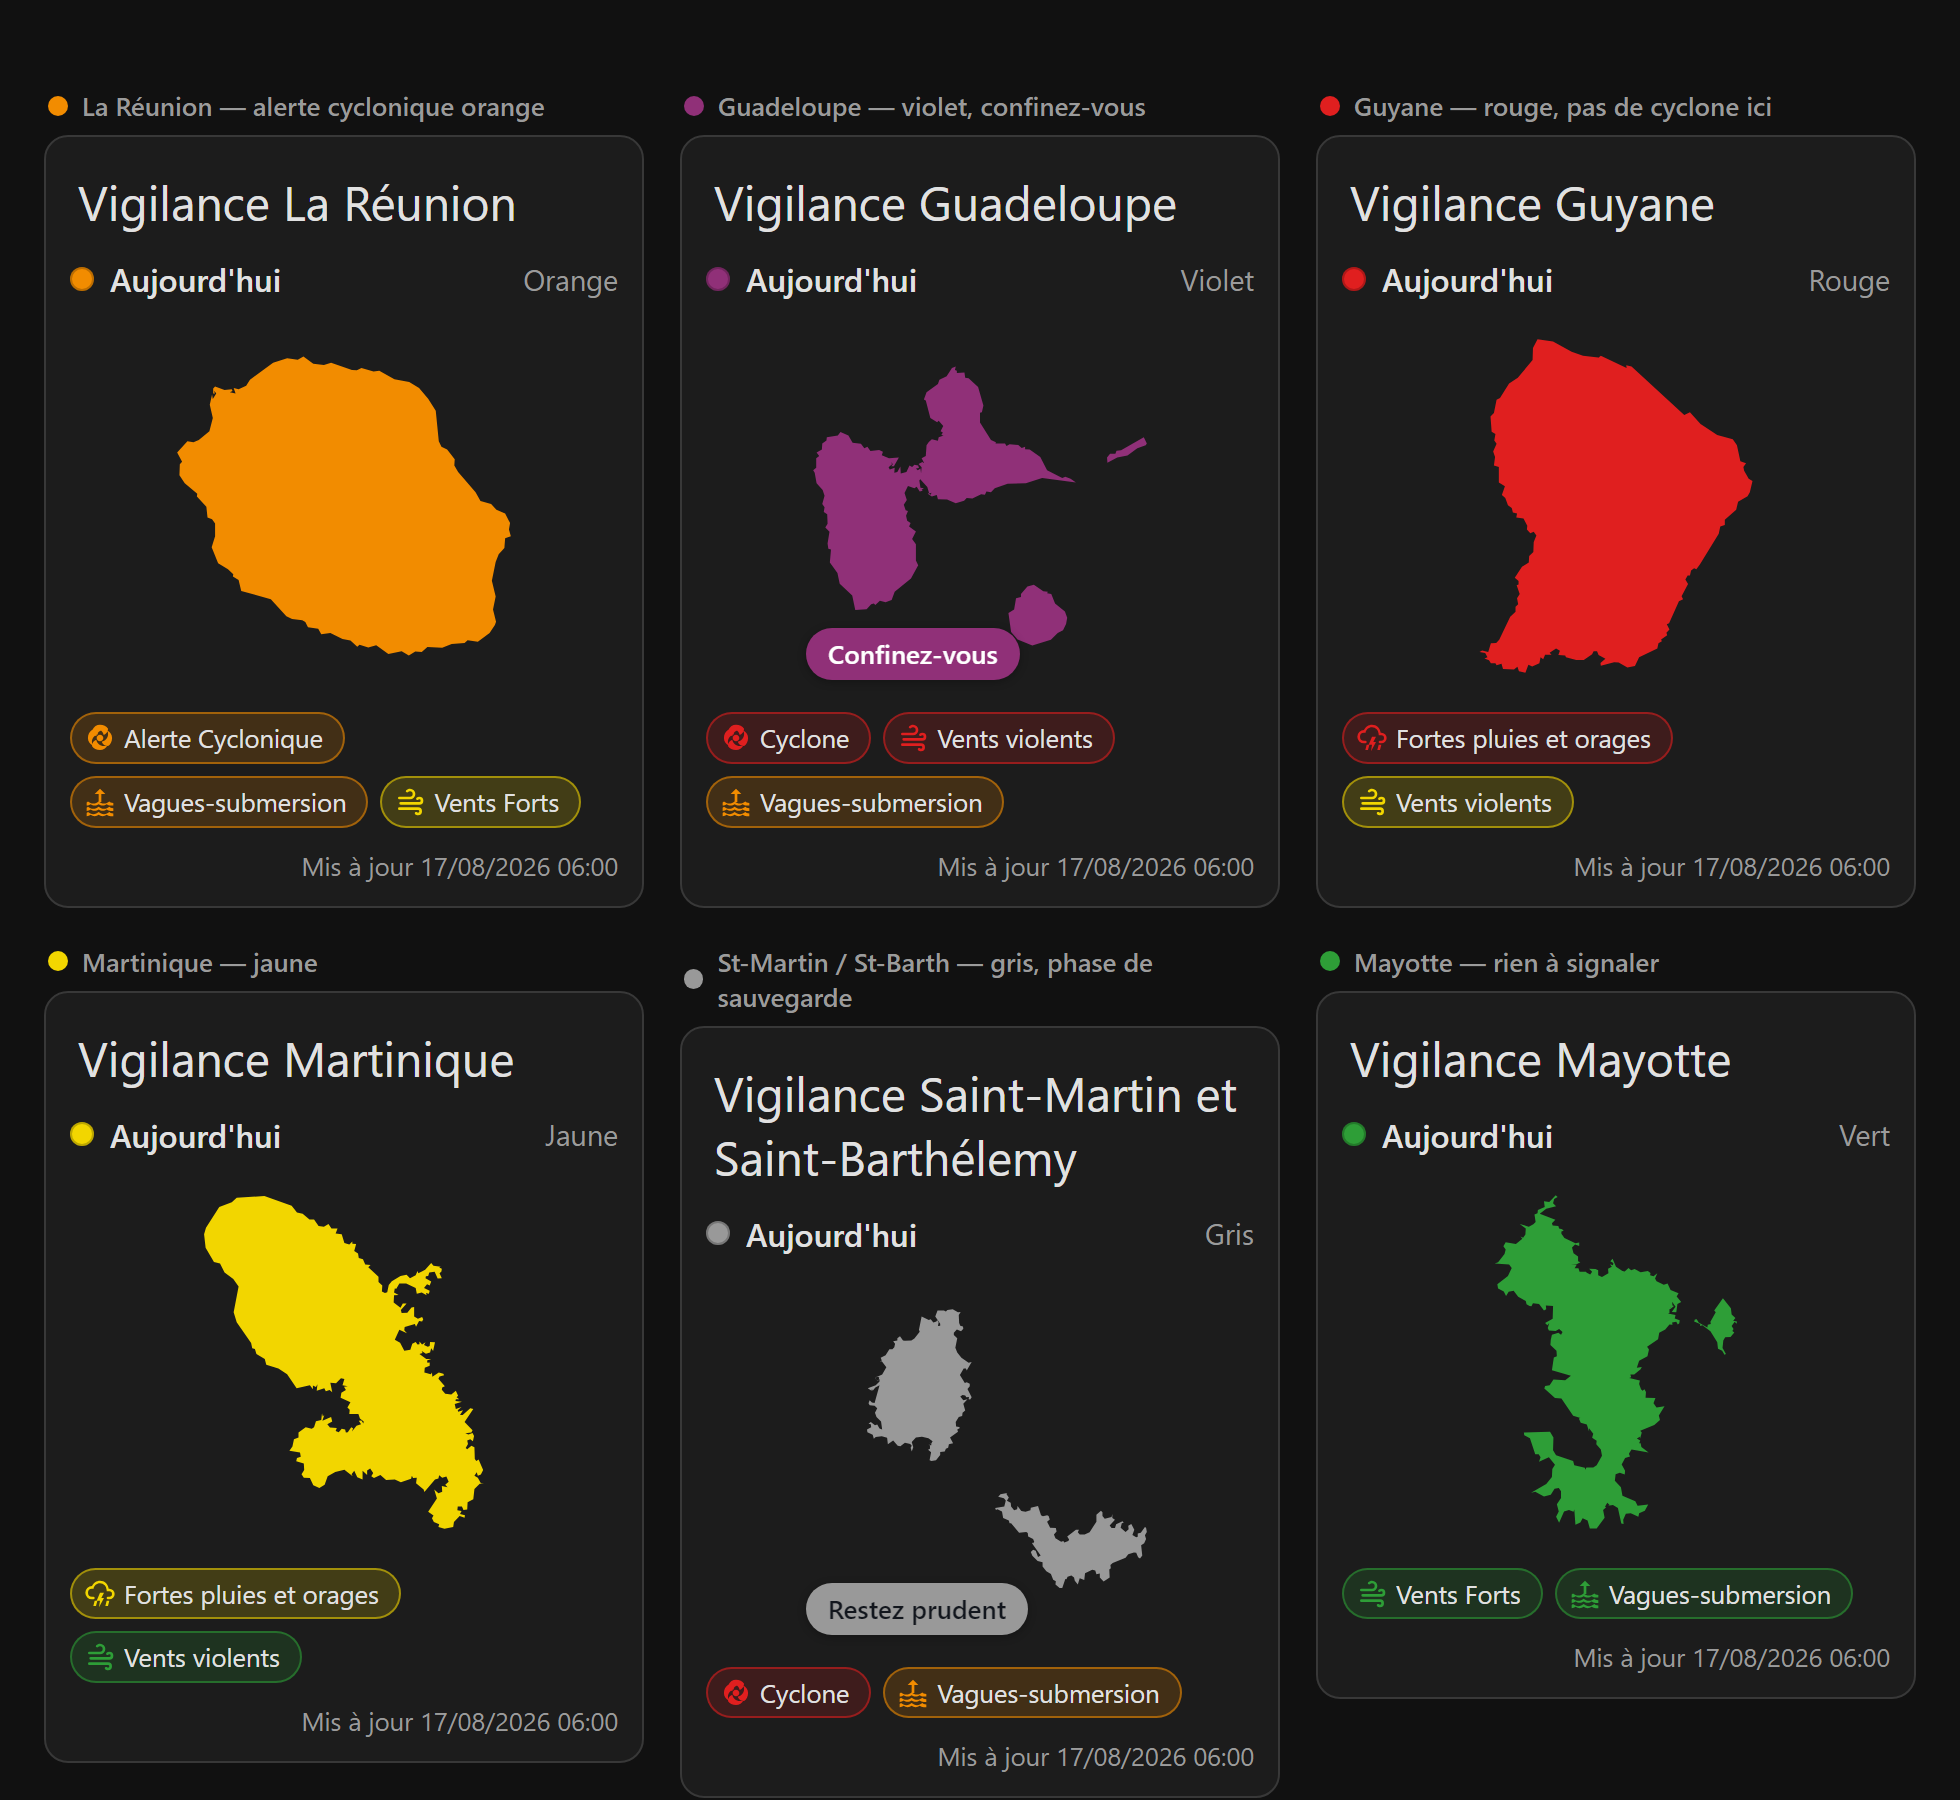
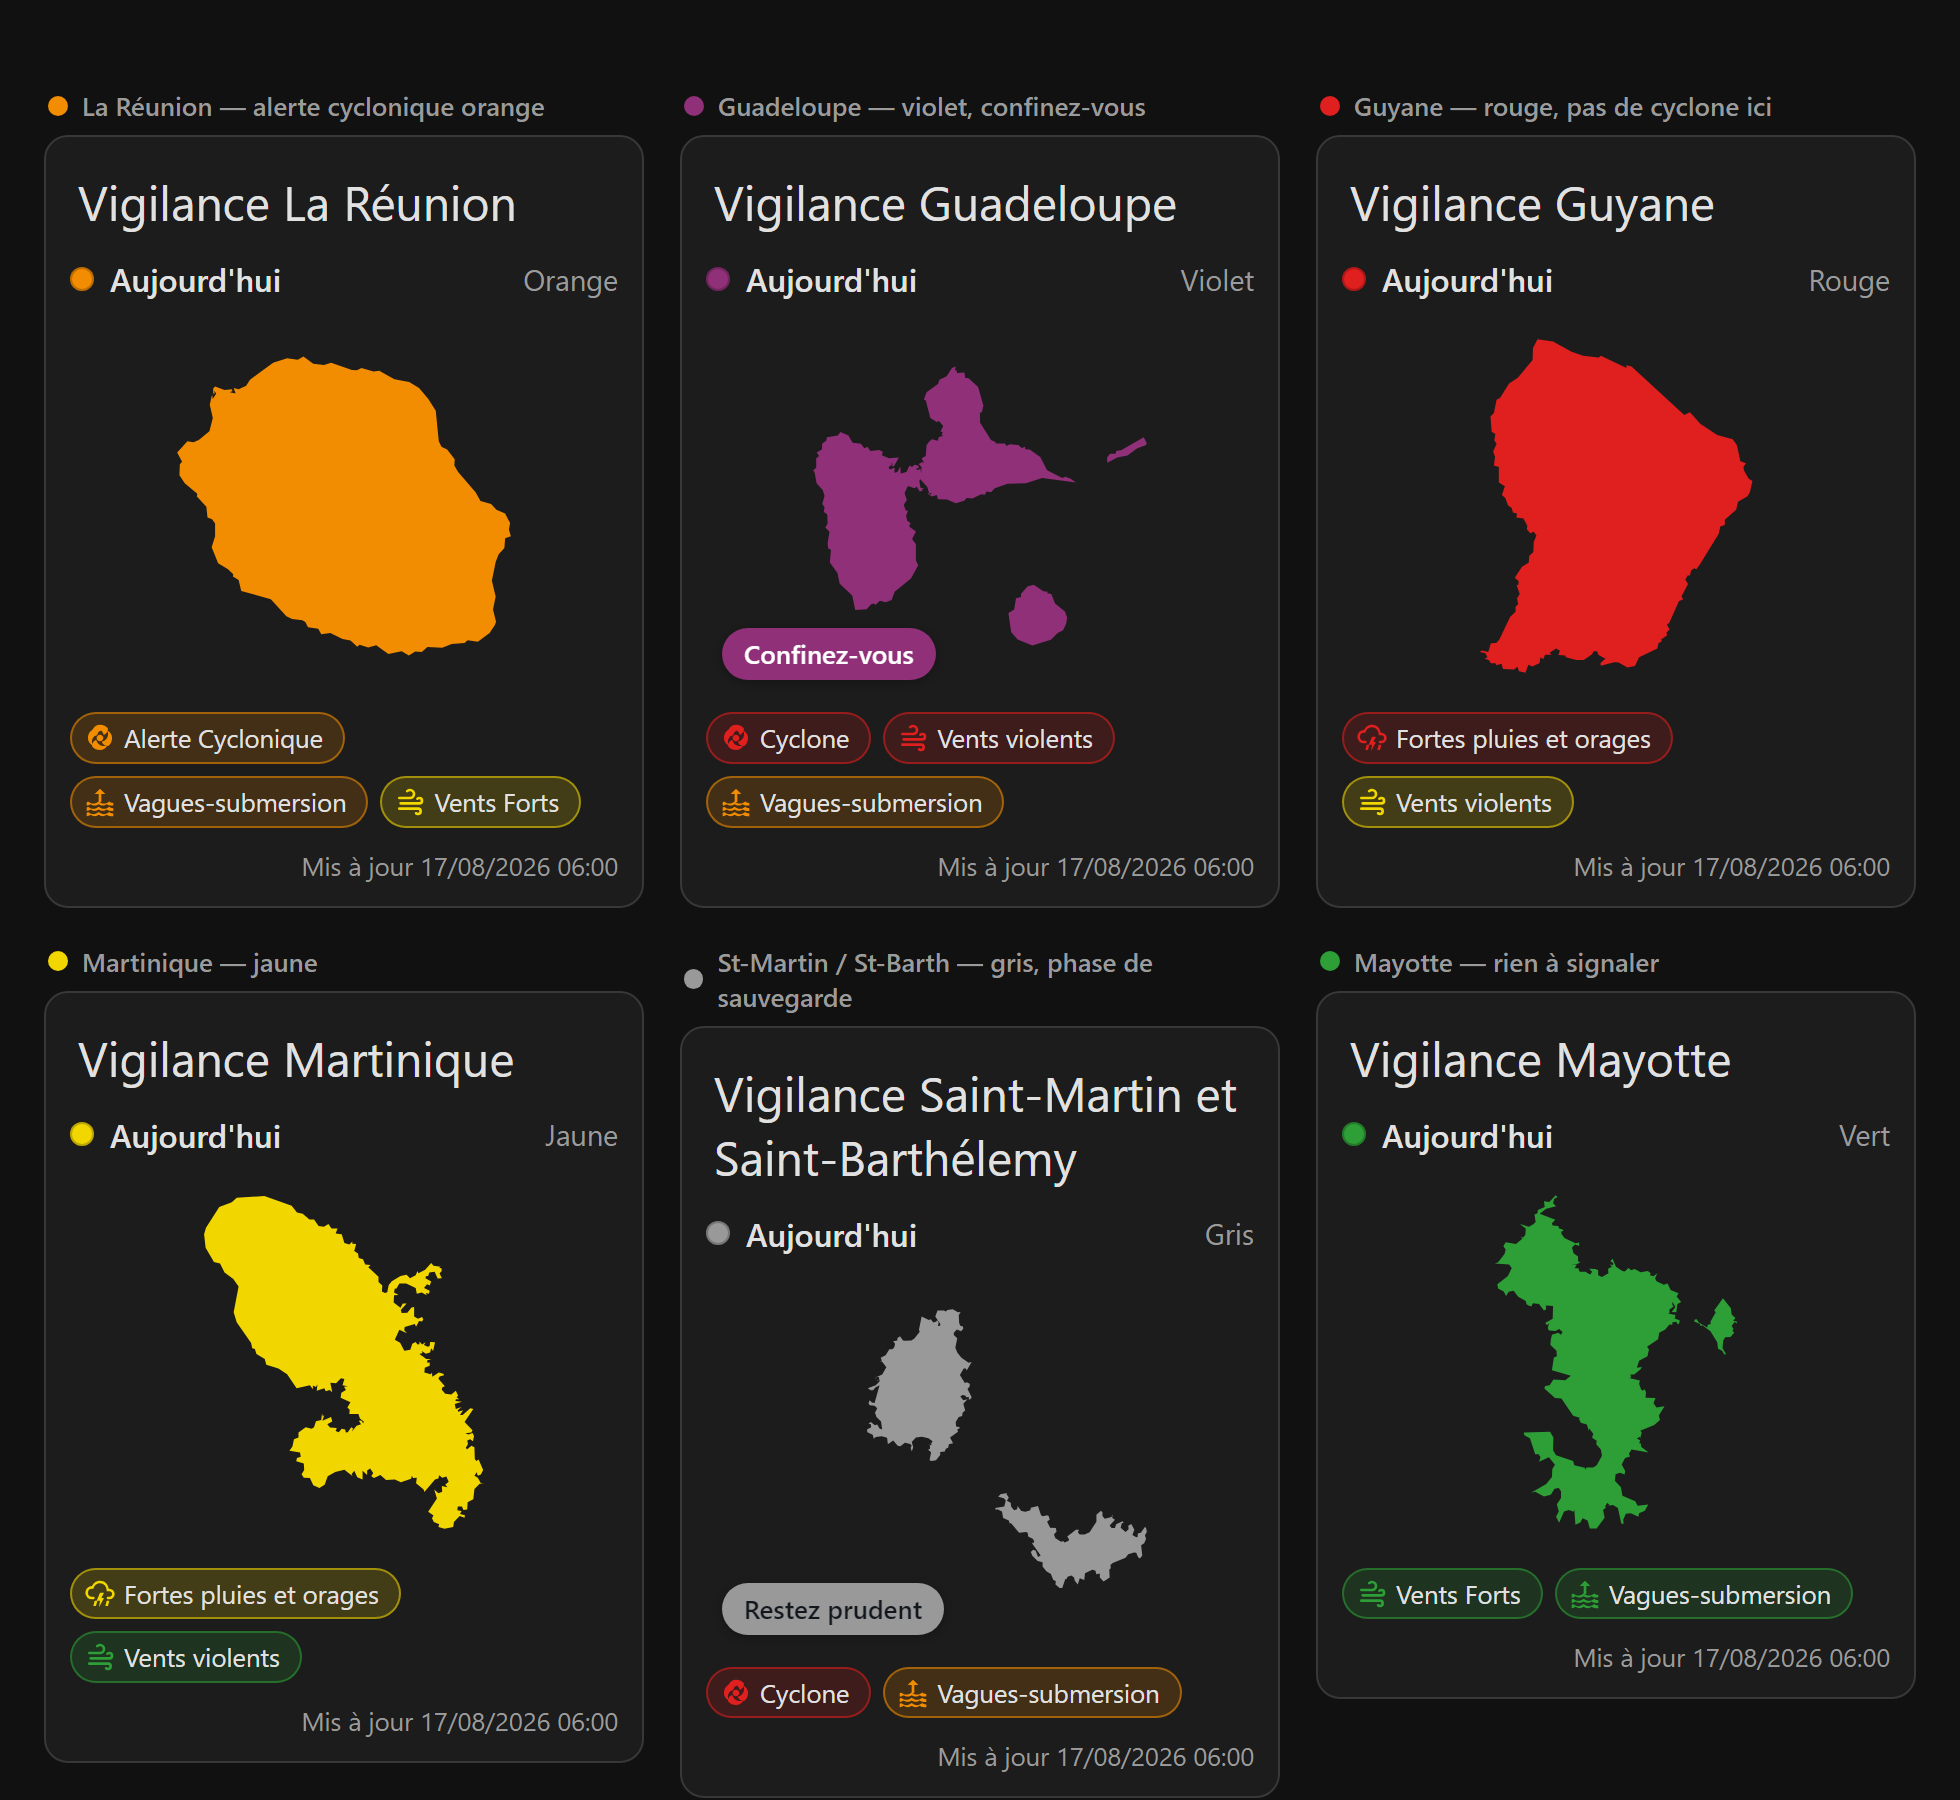
v2 : aligner la consigne sur le bord de la carte
Le badge se calait bien dans le coin de son cadre, mais ce cadre était plus
étroit que la carte : centré par une marge automatique héritée de la vignette
carrée, il donnait à la consigne l'air de flotter au milieu. Le cadre d'une
silhouette prend désormais toute la largeur, et le badge se retrouve à
l'aplomb des puces de phénomènes qui se lisent juste en dessous.

Diagnostic fait en mesurant les positions calculées dans le navigateur : les
règles étaient justes, c'est le cadre qui ne l'était pas.

Changed region(s): [[0.3735, 0.8711, 0.5291, 0.9333], [0.3735, 0.3422, 0.5291, 0.4044]]

diff --git a/custom_components/meteo_france_vigilance/frontend/meteo-france-vigilance-card.js b/custom_components/meteo_france_vigilance/frontend/meteo-france-vigilance-card.js
@@ -1326,10 +1326,17 @@ class MeteoFranceVigilanceCard extends HTMLElement {
       /* La silhouette d'un territoire n'a pas à occuper un carré : la
          Guadeloupe et les îles du Nord y flottent, alors que la Guyane le
          remplit. Une hauteur fixe les met toutes à la même échelle
-         apparente, et laisse la carte garder la hauteur de ses voisines. */
+         apparente, et laisse la carte garder la hauteur de ses voisines.
+
+         Le cadre prend toute la largeur disponible, sans quoi il se
+         resserrerait autour du dessin : le badge, qui se cale sur lui,
+         paraîtrait alors flotter au milieu plutôt que dans le coin. */
       .map-wrap:has(svg.shape) {
         aspect-ratio: auto;
         height: var(--mfv-shape-height, 190px);
+        width: 100%;
+        max-width: none;
+        margin-inline: 0;
         flex: 0 0 auto;
       }
       svg.shape {
